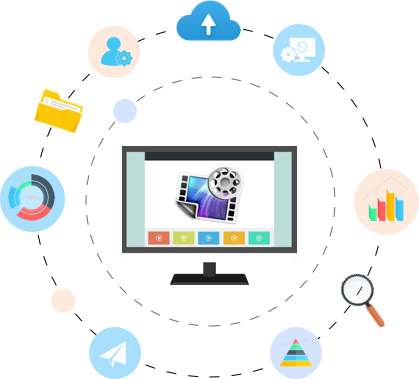
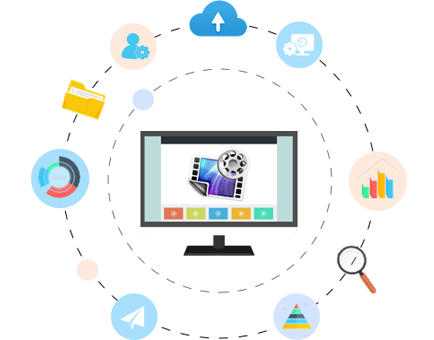
登录页优化

diff --git a/src/views/login/login.less b/src/views/login/login.less
@@ -10,19 +10,29 @@
         left: 50%;
         top: 50%;
         transform: translate(-50%,-50%);
-        width: 1107px;
-        height: 640px;
+        width: 810px;
+        height: 480px;
         background-image: url('../../images/login/bg_w.png');
         background-size: cover;
         background-position: center;
-        padding: 135px 140px 0px 178px;
+        padding: 80px 70px 0px 118px;
         box-sizing: border-box;
         &-box{
-            width: 820px;
+            width: 620px;
             height: 440px;
             .login-banner{
-                width: 434px;
+                width: 300px;
+                height: 235px;
                 float: left;
+                .banner-slide{
+                    width: 100%;
+                    height: 100%;
+                    img{
+                        width: 100%;
+                        height: 100%;
+
+                    }
+                }
                 .banner-bottom{
                     margin-top: 60px;
                     text-align: center;
@@ -75,7 +85,6 @@
                     height: 40px;
                     font-size: 14px;
                     color: #465565;
-                    margin-top: 10px;
                     &::placeholder{
                         color: #96A5B5;
                     }
@@ -90,7 +99,7 @@
                     background: url("../../images/login/password.png") left center no-repeat;
                 }
                 .sub-btn{
-                    margin-top: 60px;
+                    margin-top: 40px;
                     border-radius: 100px;
                     width: 222px;
                     font-size: 20px;

diff --git a/src/views/login/login.vue b/src/views/login/login.vue
@@ -7,9 +7,11 @@
         <div class="login-con">
             <div class="login-con-box">
                 <div class="login-banner">
-                    <swiper :options="swiperOption" ref="mySwiper" style="width:100%;height:340px">
+                    <swiper :options="swiperOption" ref="mySwiper" style="width:100%;height:235px">
                         <swiper-slide v-for="(slide, index) in swiperSlides" :key="index">
-                            <img :src="slide"></img>
+                            <div class="banner-slide">
+                                <img :src="slide"></img>
+                            </div>
                         </swiper-slide>
                     </swiper>
                     <div class="banner-bottom">
